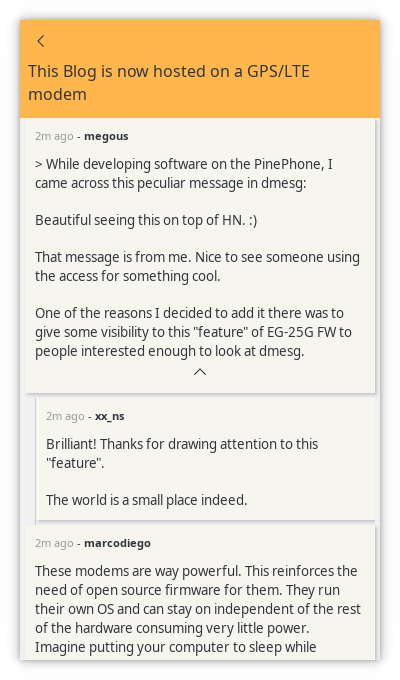
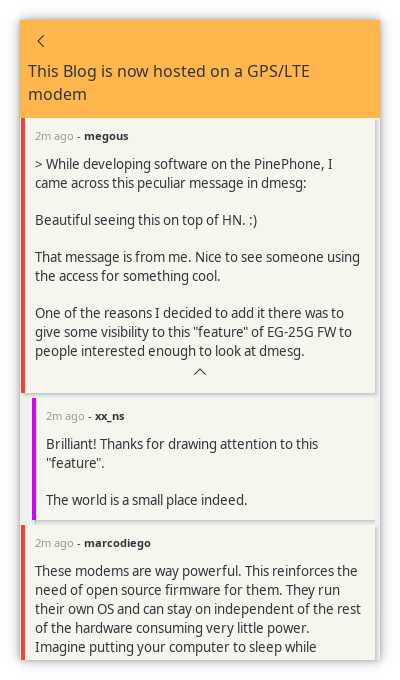
add nested colors

Changed region(s): [[0.03, 0.1853, 0.06, 0.5868], [0.03, 0.7721, 0.06, 0.9882], [0.06, 0.5868, 0.09, 0.7721]]

diff --git a/src/hn/css/style.css b/src/hn/css/style.css
@@ -13,14 +13,22 @@
 }
 .comment-item {
 	padding: 10px;
-	/*
 	border-left: 4px solid #f00;
-	margin-left: -2px;
-	*/
+	margin-left: -4px;
 	margin-bottom: 5px;
 	background-color: #f6f6ef;
 	box-shadow: 2px 2px 2px 0px rgba(0, 0, 0, 0.18);
 }
+
+.comment-item-nested-0 .comment-item { border-left-color: #f44336 }
+.comment-item-nested-1 .comment-item { border-left-color: #d500f9 }
+.comment-item-nested-2 .comment-item { border-left-color: #304ffe }
+.comment-item-nested-3 .comment-item { border-left-color: #0288d1 }
+.comment-item-nested-4 .comment-item { border-left-color: #26A69A }
+.comment-item-nested-5 .comment-item { border-left-color: #00c853 }
+.comment-item-nested-6 .comment-item { border-left-color: #fff3e0 }
+.comment-item-nested-7 .comment-item { border-left-color: #8d6e63 }
+
 .comment-item-toggle {
 	padding: 3px;
 }

diff --git a/src/hn/hn.py b/src/hn/hn.py
@@ -191,7 +191,7 @@ class CommentThread(Gtk.Grid):
     def _set_comments(self, comments):
 
         for i in comments:
-            widget1 = CommentItem(i)
+            widget1 = CommentItem(i, 0)
             self.comments_container.pack_start(widget1, 0, 0, 0)  ## fill and expand
 
 class NewsItem(Gtk.Grid):
@@ -254,8 +254,11 @@ class NewsItem(Gtk.Grid):
 
 
 class CommentItem(Gtk.VBox):
-    def __init__(self, _item_id, *args, **kwds):
+    def __init__(self, _item_id, nesting, *args, **kwds):
         super().__init__(*args, **kwds)
+
+        self.nesting = nesting
+        self.get_style_context().add_class(f'comment-item-nested-{nesting}')
 
         self.set_vexpand(False)
         self.comment_body = Gtk.Grid()
@@ -280,6 +283,7 @@ class CommentItem(Gtk.VBox):
         self.replies.set_vexpand(True)
         self.replies.get_style_context().add_class('comment-replies')
         self.replies_container.add(self.replies)
+        self.replies_container.set_reveal_child(False)
 
         self.add(self.comment_body)
         self.add(self.replies_container)
@@ -303,6 +307,7 @@ class CommentItem(Gtk.VBox):
         self.comment.set_markup(comment.markup)
 
         if comment.kids:
+            self.replies_container.set_reveal_child(True)
             self.revealer_event = Gtk.EventBox()
             self.revealer_label = Gtk.Image.new_from_icon_name(icon_name='go-up', size=Gtk.IconSize.SMALL_TOOLBAR)
             self.revealer_label.get_style_context().add_class('comment-item-toggle')
@@ -312,10 +317,9 @@ class CommentItem(Gtk.VBox):
             self.show_all()
 
         for i in comment.kids:
-            wid = CommentItem(i)
+            wid = CommentItem(i, self.nesting + 1)
             wid.set_visible(True)
             self.replies.pack_start(wid, 0, 0, 0)
-        self.replies_container.set_reveal_child(True)
 
     def reveal_replies_click(self, box, event):
         self.replies_visible = not self.replies_visible

diff --git a/README.md b/README.md
@@ -2,6 +2,7 @@
 
 - Code blocks
 - Fetch comments in threads
+- Copied colors / layout / thread depth from [Materialistic](https://github.com/hidroh/materialistic)
 - Works in read-only fashion
   - News list can only reload by over-shooting the scroll, but there's no visual indicator
 
